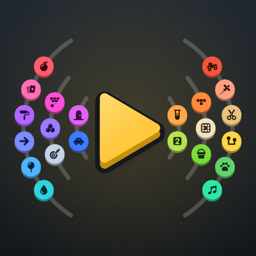
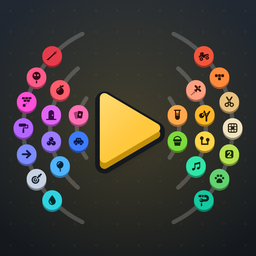
Add Blob Buster, Coil Crush, Spear Storm and Sling Siege: 26 games
- Four new cartridges on the shelf, with labels and blurbs from the app.
- Counts: 26 games in the descriptions, hero, pill and shelf note;
  chips Arcade 9, Physics 7, Puzzle 8, Brain 2.
- Favicon, app icon, hero mark and link-preview image show a badge for
  every game again.

diff --git a/index.html b/index.html
@@ -4,13 +4,13 @@
 <meta charset="utf-8">
 <meta name="viewport" content="width=device-width, initial-scale=1, viewport-fit=cover">
 <title>OffAir: Offline Games, No Wi-Fi Needed</title>
-<meta name="description" content="22 original arcade, physics, puzzle and brain games that play fully offline. No account, no sign-in.">
+<meta name="description" content="26 original arcade, physics, puzzle and brain games that play fully offline. No account, no sign-in.">
 <meta name="author" content="SoftMobiXBD">
 <meta name="theme-color" content="#0E1217" media="(prefers-color-scheme: dark)">
 <meta name="theme-color" content="#F2ECE1" media="(prefers-color-scheme: light)">
 <meta property="og:type" content="website">
 <meta property="og:title" content="OffAir: Offline Games, No Wi-Fi Needed">
-<meta property="og:description" content="22 original arcade, physics, puzzle and brain games that play fully offline. No account, no sign-in.">
+<meta property="og:description" content="26 original arcade, physics, puzzle and brain games that play fully offline. No account, no sign-in.">
 <meta property="og:image" content="img/og-512.png">
 <link rel="icon" type="image/png" href="img/favicon-64.png">
 <link rel="apple-touch-icon" href="img/apple-touch-icon.png">
@@ -32,14 +32,14 @@
 <section class="card hero rise" aria-labelledby="hero-title">
   <div class="hero-text">
     <p class="kicker"><span class="pulse" aria-hidden="true"></span> No signal? No problem.</p>
-    <h1 id="hero-title">22 games.<br><span>Zero Wi-Fi.</span></h1>
+    <h1 id="hero-title">26 games.<br><span>Zero Wi-Fi.</span></h1>
     <p class="lead">OffAir is a shelf of original arcade, physics, puzzle and brain games that plays fully in airplane mode. No account, no sign-in, nothing more to download.</p>
     <div class="cta">
       <a class="btn primary" href="https://play.google.com/store/apps/details?id=com.softmobixbd.offair"><svg viewBox="0 0 24 24" fill="none" stroke="currentColor" stroke-width="2.2" stroke-linecap="round" stroke-linejoin="round" aria-hidden="true"><path d="M7 4.5v15a1 1 0 0 0 1.5.87l12.5-7.5a1 1 0 0 0 0-1.74L8.5 3.63A1 1 0 0 0 7 4.5z" fill="currentColor" stroke="none"/></svg>Get it on Google Play</a>
       <a class="btn ghost" aria-disabled="true"><svg viewBox="0 0 24 24" fill="none" stroke="currentColor" stroke-width="2.2" stroke-linecap="round" stroke-linejoin="round" aria-hidden="true"><path d="M12 20.94c1.5 0 2.75 1.06 4 1.06 3 0 6-8 6-12.22A4.91 4.91 0 0 0 17 5c-2.22 0-4 1.44-5 2-1-.56-2.78-2-5-2a4.9 4.9 0 0 0-5 4.78C2 14 5 22 8 22c1.25 0 2.5-1.06 4-1.06Z"/><path d="M10 2c1 .5 2 2 2 5"/></svg>iPhone: coming soon</a>
     </div>
     <ul class="pills" aria-label="At a glance">
-      <li class="pill" style="--c:var(--yellow)"><i></i>22 games</li>
+      <li class="pill" style="--c:var(--yellow)"><i></i>26 games</li>
       <li class="pill"><i></i>100% offline</li>
       <li class="pill" style="--c:var(--sky)"><i></i>No account</li>
       <li class="pill" style="--c:var(--violet)"><i></i>English · বাংলা</li>
@@ -61,8 +61,8 @@
 </section>
 
 <section class="section" id="games" aria-labelledby="shelf">
-  <div class="section-head"><h2 id="shelf">Cartridges</h2><span class="note" data-count aria-live="polite">22 games</span></div>
-  <div class="chips" role="group" aria-label="Filter games by type"><button class="chip" type="button" data-filter="all" aria-pressed="true">All <small>22</small></button><button class="chip" type="button" data-filter="arcade" aria-pressed="false">Arcade <small>6</small></button><button class="chip" type="button" data-filter="physics" aria-pressed="false">Physics <small>6</small></button><button class="chip" type="button" data-filter="puzzle" aria-pressed="false">Puzzle <small>8</small></button><button class="chip" type="button" data-filter="brain" aria-pressed="false">Brain <small>2</small></button></div>
+  <div class="section-head"><h2 id="shelf">Cartridges</h2><span class="note" data-count aria-live="polite">26 games</span></div>
+  <div class="chips" role="group" aria-label="Filter games by type"><button class="chip" type="button" data-filter="all" aria-pressed="true">All <small>26</small></button><button class="chip" type="button" data-filter="arcade" aria-pressed="false">Arcade <small>9</small></button><button class="chip" type="button" data-filter="physics" aria-pressed="false">Physics <small>7</small></button><button class="chip" type="button" data-filter="puzzle" aria-pressed="false">Puzzle <small>8</small></button><button class="chip" type="button" data-filter="brain" aria-pressed="false">Brain <small>2</small></button></div>
   <div class="shelf">
     <article class="cart" data-cat="arcade" style="--c:#4FB3FF">
       <div class="strip" aria-hidden="true"><span>OFFAIR</span><i class="led"></i></div>
@@ -206,6 +206,38 @@
       <h3>Duck &amp; Weave</h3>
       <p class="type">Arcade</p>
       <p class="blurb">Missiles are on your tail. Weave through the sky and lure them into each other.</p>
+      <div class="grip" aria-hidden="true"></div>
+    </article>
+    <article class="cart" data-cat="arcade" style="--c:#FF5A8A">
+      <div class="strip" aria-hidden="true"><span>OFFAIR</span><i class="led"></i></div>
+      <div class="label"><img src="img/games/blobs.png" alt="Blob Buster cartridge label" width="320" height="200" loading="lazy"></div>
+      <h3>Blob Buster</h3>
+      <p class="type">Arcade</p>
+      <p class="blurb">Roll the cannon, blast the bouncing jelly blobs and pop every piece before one lands on you.</p>
+      <div class="grip" aria-hidden="true"></div>
+    </article>
+    <article class="cart" data-cat="arcade" style="--c:#14C9A0">
+      <div class="strip" aria-hidden="true"><span>OFFAIR</span><i class="led"></i></div>
+      <div class="label"><img src="img/games/coil.png" alt="Coil Crush cartridge label" width="320" height="200" loading="lazy"></div>
+      <h3>Coil Crush</h3>
+      <p class="type">Arcade</p>
+      <p class="blurb">Roll the cannon and crush the winding coil scale by scale before it reaches its burrow.</p>
+      <div class="grip" aria-hidden="true"></div>
+    </article>
+    <article class="cart" data-cat="arcade" style="--c:#E63B4A">
+      <div class="strip" aria-hidden="true"><span>OFFAIR</span><i class="led"></i></div>
+      <div class="label"><img src="img/games/spear.png" alt="Spear Storm cartridge label" width="320" height="200" loading="lazy"></div>
+      <h3>Spear Storm</h3>
+      <p class="type">Arcade</p>
+      <p class="blurb">Pull back, let fly and topple every foe off its ledge before they find their aim.</p>
+      <div class="grip" aria-hidden="true"></div>
+    </article>
+    <article class="cart" data-cat="physics" style="--c:#FFB627">
+      <div class="strip" aria-hidden="true"><span>OFFAIR</span><i class="led"></i></div>
+      <div class="label"><img src="img/games/sling.png" alt="Sling Siege cartridge label" width="320" height="200" loading="lazy"></div>
+      <h3>Sling Siege</h3>
+      <p class="type">Physics</p>
+      <p class="blurb">Pull back, let fly and bring every mole fort crashing down.</p>
       <div class="grip" aria-hidden="true"></div>
     </article>
     <article class="cart" data-cat="puzzle" style="--c:#FFA94D">

diff --git a/README.md b/README.md
@@ -18,15 +18,16 @@ OffAir is made by **SoftMobiXBD** (https://softmobixbd.github.io/). The pages us
 1. Have the privacy policy and terms read by someone qualified. They describe what the app really does (Firebase Analytics and Crashlytics, AdMob, consent, local storage), but they are not legal advice.
 2. When the iPhone version ships, swap the "iPhone: coming soon" button in `index.html` for the App Store link.
 
-## Hosting (on the studio site)
+## Hosting
 
-Like the studio's other apps (`/quickmath_about/`, `/NumIQ/`…), put these files in a folder of the `softmobixbd.github.io` repository, e.g. `offair/` (leave out `README.md`). The links are relative, so nothing needs changing. Then:
+The live pages are the public repository [`softmobixbd/offair`](https://github.com/softmobixbd/offair), served by GitHub Pages from its `main` branch root as `https://softmobixbd.github.io/offair/`. It holds a copy of this folder; this folder is the source. The links are relative, so nothing needs changing.
+
+To publish a change: commit it here, copy this folder over a clone of `softmobixbd/offair` (keeping its `.git`), then commit and push there. Pages redeploys within a minute or two.
 
 - Privacy policy URL for Google Play and the App Store: `https://softmobixbd.github.io/offair/privacy.html`
 - Developer website in the store listings: `https://softmobixbd.github.io/`. Its root already serves the right `app-ads.txt`.
-- Add OffAir to the apps on the studio's home page.
 
-Firebase Hosting also works (`firebase deploy --only hosting`, set up in `firebase.json`) if you want `https://<project-id>.web.app`.
+Don't use Firebase Hosting for these pages: the studio's Firebase project (`softmobixbd`) already serves NumIQ Admin at its default site, and deploying over it would replace that.
 
 ## Linked from the app
 
@@ -36,6 +37,9 @@ Settings › About opens these live pages: `https://softmobixbd.github.io/offair
 
 ```sh
 flutter test test_screens/web_assets_test.dart   # refreshes img/games/*.png and games.json
+python3 tool/web_icons.py                        # favicon, app icon, hero mark, og image
 ```
 
-Then add the game's cartridge to the shelf in `index.html`, copying a neighbour's markup with the id, title, type, colour and blurb from `img/games/games.json`, and update the counts on the chips and in the hero.
+`tool/web_icons.py` resizes the launcher and brand art, so re-render those first (`test_screens/launcher_icon_test.dart`, `test_screens/brand_test.dart`): the mark has a badge for every game.
+
+Then add the game's cartridge to the shelf in `index.html`, copying a neighbour's markup with the id, title, type, colour and blurb from `img/games/games.json` (the shelf follows the registry's order), and update the counts: the meta and og descriptions, the hero heading, the "N games" pill, the shelf note and the filter chips.
